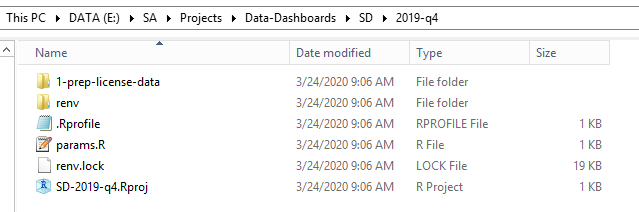
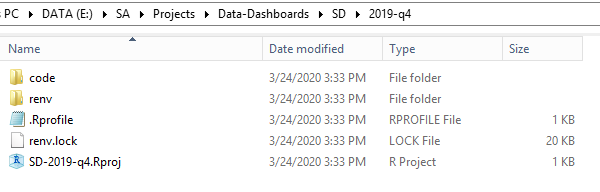
error handling in new_project() and template structure

diff --git a/README.md b/README.md
@@ -22,7 +22,7 @@ lictemplate::new_project("SD", "2019-q4")
 ##  E:/SA/Projects/Data-Dashboards/SD/2019-q4
 ```
 
-These folders/files are created after running `new_project()`:
+Running `new_project()` creates data directories and a set of template files/folders for analysis, defaulting to Data Server file paths:
 
 ![](img/new-dashboard.png)
 
